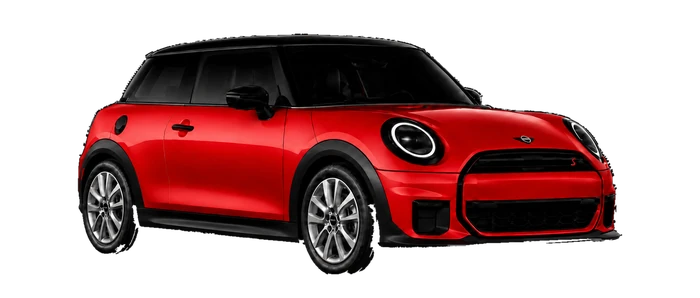
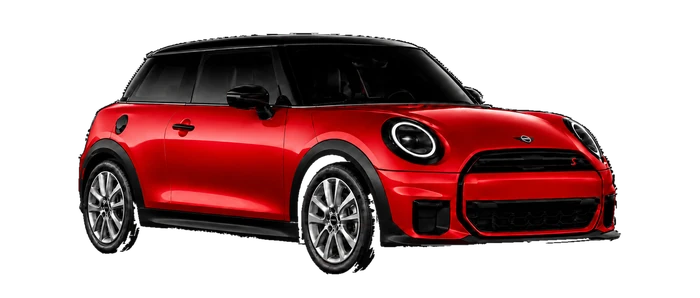
Garage: el destello se reemplaza por un barrido de luz, y MINI nuevo
EL DESTELLO ERA MALO Y ESTABA MAL PLANTEADO. La tira escalaba en
vertical: engordaba y adelgazaba. Eso no se lee como una luz
encendiendose, se lee como una lampara fallando.

EL PROBLEMA DE FONDO ERA ESTRUCTURAL. La geometria vivia en
.gar-auto::before, asi que habia una sola capa para todo y ademas
obligaba a repetir el rotate dentro de cada fotograma —animar
`transform` pisa el giro—. Ahora la calle es un elemento propio:

  .gar-calle          la geometria y el halo
  .gar-calle::before  el nucleo encendido
  .gar-calle::after   el barrido

El giro se declara UNA vez en el padre y los hijos son barras
horizontales: cada capa hace lo suyo sin pelearse con la rotacion.

EL BARRIDO. Un reflejo angosto recorre la tira de punta a punta cuando
el auto llega, en el mismo sentido en que venia. La tira NUNCA se apaga
—eso es lo que la diferencia de un parpadeo—: lo que pasa es que algo la
recorre. Arranca a los .92s contra los 1.15s del viaje, asi corre
mientras el auto termina de plantarse. Verificado sobre una rafaga de
capturas del simulador: se ve el reflejo desplazandose cuadro a cuadro.

MINI NUEVO. Se reemplaza la foto y se recalculan sus cuatro numeros de
calle: la distancia entre ejes cambio, asi que su linea pasa de 0.3041 a
0.3241 del ancho y el angulo de 5.49 a 5.31 grados. Fondo verificado
(maximo 2 sobre 255) y geometria revalidada: 3.30% de hueco en
escritorio y 2.82% en movil entre el que entra y el del centro.

diff --git a/public/index.html b/public/index.html
@@ -953,107 +953,112 @@ video::-webkit-media-controls{ display:none !important; }
              transform 1.15s var(--ease), opacity .38s var(--ease) .74s;
 }
 
-/* LA CALLE — UNA TIRA DE LUZ, NO UNA RAYA.
+/* LA CALLE.
 
    Va de la goma trasera a la delantera siguiendo la inclinacion real de
    cada foto. Los cuatro numeros salen de medir el alfa de cada archivo
    —donde apoya cada rueda, en fraccion del lienzo— y viajan como
-   propiedades en el HTML porque son distintos por auto: la MINI tiene la
-   distancia entre ejes mas corta y su linea es un 14% mas corta que la
-   del Mercedes.
+   propiedades en el HTML, porque son distintos por auto: la MINI tiene
+   la distancia entre ejes mas corta y su linea es un 14% mas corta que
+   la del Mercedes.
 
-   SON DOS CAPAS, y esa es la diferencia entre una raya y una luz:
+   ES UN ELEMENTO PROPIO Y NO UN PSEUDO DEL AUTO. Antes la geometria
+   vivia en .gar-auto::before, y eso obligaba a repetir el rotate dentro
+   de cada fotograma de la animacion —animar `transform` pisa el giro— y
+   dejaba una sola capa para todo. Con un elemento propio, el giro se
+   declara UNA vez acá y los hijos son barras horizontales: cada capa
+   hace lo suyo sin pelearse con la rotacion.
 
-   ::before es el nucleo, dos pixeles encendidos. Se apaga hacia las
-   puntas con un degradado en vez de terminar de golpe — una linea que
-   arranca y corta en seco se lee como un objeto apoyado; una que se
-   desvanece se lee como luz que se termina.
+     .gar-calle          la geometria y el halo
+     .gar-calle::before  el nucleo encendido
+     .gar-calle::after   el barrido que la recorre al llegar
 
-   ::after es el resplandor: una banda ancha y difusa centrada en el
-   mismo eje. Es lo que hace que la luz parezca salir de algun lado en
-   vez de estar pegada encima.
-
-   Las dos giran el mismo angulo y viven DENTRO del auto, asi que heredan
-   su escala: el vecino achicado trae su tira achicada, que es lo que la
-   hace leer como la misma calle yendose al fondo.
-
-   Las dos van detras de la foto (z-index 0 contra 1), asi la tira pasa
-   POR DEBAJO de las gomas y se ve solo entre medio — que es donde
-   estaria de verdad. */
-.gar-auto::before,
-.gar-auto::after{
-  content:"";
+   Vive detras de la foto, asi la tira pasa POR DEBAJO de las gomas y se
+   ve solo entre medio, que es donde estaria de verdad. Y hereda la
+   escala del auto: el vecino achicado trae su calle achicada, que es lo
+   que la hace leer como la misma calle yendose al fondo. */
+.gar-calle{
   position:absolute;
   left:calc(var(--x1) * 100%);
   top:calc(var(--y1) * 100%);
   width:calc(var(--largo) * 100%);
+  height:30px;
+  margin-top:-15px;
   transform-origin:0 50%;
   transform:rotate(var(--ang));
   z-index:0;
   pointer-events:none;
+  /* el halo. Sin blur: el degradado ya es suave, y un filtro acá
+     desenfocaria tambien al nucleo y al barrido, que son hijos. */
+  background:radial-gradient(50% 46% at 48% 50%,
+    rgba(255,255,255,.20), rgba(255,255,255,.055) 46%, transparent 76%);
+  opacity:.72;
+  transition:opacity .5s var(--ease);
 }
 
-/* el nucleo */
-.gar-auto::before{
+/* el nucleo, encendido siempre. Se apaga hacia las puntas en vez de
+   terminar de golpe: una linea que corta en seco se lee como un objeto
+   apoyado; una que se desvanece, como luz que se termina. */
+.gar-calle::before{
+  content:"";
+  position:absolute;
+  left:0; right:0; top:50%;
   height:2px;
   margin-top:-1px;
   background:linear-gradient(90deg,
     transparent 0%,
-    rgba(255,255,255,.55) 10%,
-    #fff 46%,
-    rgba(255,255,255,.9) 72%,
+    rgba(255,255,255,.5) 11%,
+    #fff 47%,
+    rgba(255,255,255,.88) 74%,
     transparent 100%);
 }
 
-/* el resplandor */
-.gar-auto::after{
-  height:26px;
-  margin-top:-13px;
-  background:radial-gradient(52% 50% at 48% 50%,
-    rgba(255,255,255,.26), rgba(255,255,255,.07) 45%, transparent 74%);
-  filter:blur(5px);
+/* EL BARRIDO. Un reflejo angosto que recorre la tira de punta a punta
+   cuando el auto llega, en el mismo sentido en que venia. No es un
+   parpadeo: la tira nunca se apaga, lo que pasa es que algo la recorre.
+   Esa es la diferencia entre que parezca una lampara fallando y que
+   parezca una regleta encendiendose. */
+.gar-calle::after{
+  content:"";
+  position:absolute;
+  left:0; top:50%;
+  width:30%;
+  height:3px;
+  margin-top:-1.5px;
+  background:linear-gradient(90deg,
+    transparent 0%, rgba(255,255,255,.55) 38%, #fff 52%,
+    rgba(255,255,255,.45) 66%, transparent 100%);
+  filter:blur(1.5px);
+  opacity:0;
 }
 
-/* EL DESTELLO. La tira se enciende cuando el auto LLEGA, no cuando
-   arranca: de ahí el retardo de 1s contra los 1.15s que dura el viaje.
-   El pico cae casi sobre el momento en que el auto se planta, y se lee
-   como que la luz prende al pisarla.
-
-   Sube rapido y baja despacio —el pico esta al 14% del recorrido— que
-   es como se comporta una lampara de verdad y no un parpadeo digital.
-
-   El rotate se repite en cada fotograma porque animar `transform` pisa
-   el giro que ya tenia la tira; sin eso, durante el destello la linea
-   se pondria horizontal de golpe.
-
-   La animacion se dispara sola cada vez que un auto recibe .es-actual,
-   que es exactamente una vez por llegada. */
-@keyframes gar-destello-nucleo{
-  0%   { transform:rotate(var(--ang)) scaleY(1);   opacity:.45; }
-  14%  { transform:rotate(var(--ang)) scaleY(3.4); opacity:1;   }
-  46%  { transform:rotate(var(--ang)) scaleY(1.5); opacity:1;   }
-  100% { transform:rotate(var(--ang)) scaleY(1);   opacity:1;   }
+/* Arranca a los .92s contra los 1.15s que dura el viaje: el barrido
+   corre mientras el auto termina de plantarse, no despues. */
+@keyframes gar-barrido{
+  0%   { opacity:0;  transform:translateX(-45%); }
+  14%  { opacity:1;  }
+  84%  { opacity:.9; }
+  100% { opacity:0;  transform:translateX(345%); }
 }
 
-@keyframes gar-destello-halo{
-  0%   { transform:rotate(var(--ang)) scaleY(.7); opacity:.3; }
-  14%  { transform:rotate(var(--ang)) scaleY(2.1); opacity:1;  }
-  52%  { transform:rotate(var(--ang)) scaleY(1.2); opacity:1;  }
-  100% { transform:rotate(var(--ang)) scaleY(1);   opacity:1;  }
+@keyframes gar-encender{
+  0%   { opacity:.3; }
+  30%  { opacity:1;  }
+  100% { opacity:.72; }
 }
 
-.gar-auto.es-actual::before{
-  animation:gar-destello-nucleo .85s var(--ease) 1s both;
+.gar-auto.es-actual .gar-calle{
+  animation:gar-encender 1.5s var(--ease) .85s both;
 }
-.gar-auto.es-actual::after{
-  animation:gar-destello-halo .95s var(--ease) 1s both;
+.gar-auto.es-actual .gar-calle::after{
+  animation:gar-barrido 1.15s cubic-bezier(.18,.72,.3,1) .92s both;
 }
 
-/* Quien pidió no ver movimiento no ve el destello: la tira aparece
-   encendida y quieta. */
+/* Quien pidió no ver movimiento ve la tira encendida y quieta. */
 @media (prefers-reduced-motion:reduce){
-  .gar-auto.es-actual::before,
-  .gar-auto.es-actual::after{ animation:none; }
+  .gar-auto.es-actual .gar-calle,
+  .gar-auto.es-actual .gar-calle::after{ animation:none; }
+  .gar-calle{ opacity:.72; }
 }
 
 .gar-auto picture{
@@ -2974,6 +2979,7 @@ body.is-dark.is-scrolled #topbar{
 
       <div class="gar-auto"
            style="--x1:0.1555; --y1:0.8504; --largo:0.3521; --ang:4.74deg">
+        <span class="gar-calle" aria-hidden="true"></span>
         <picture>
           <source media="(max-width:767px)" srcset="assets/grupos/alta-gama@sm.webp">
           <img src="assets/grupos/alta-gama.webp" alt="Mercedes-AMG GLE 63 Coupé blanco"
@@ -2982,6 +2988,7 @@ body.is-dark.is-scrolled #topbar{
       </div>
       <div class="gar-auto"
            style="--x1:0.1518; --y1:0.8462; --largo:0.3514; --ang:5.19deg">
+        <span class="gar-calle" aria-hidden="true"></span>
         <picture>
           <source media="(max-width:767px)" srcset="assets/grupos/deportivos@sm.webp">
           <img src="assets/grupos/deportivos.webp" alt="BMW M240i violeta"
@@ -2990,6 +2997,7 @@ body.is-dark.is-scrolled #topbar{
       </div>
       <div class="gar-auto"
            style="--x1:0.1573; --y1:0.8504; --largo:0.3503; --ang:4.76deg">
+        <span class="gar-calle" aria-hidden="true"></span>
         <picture>
           <source media="(max-width:767px)" srcset="assets/grupos/evolution@sm.webp">
           <img src="assets/grupos/evolution.webp" alt="Ford Mustang Mach-E azul"
@@ -2997,7 +3005,8 @@ body.is-dark.is-scrolled #topbar{
         </picture>
       </div>
       <div class="gar-auto"
-           style="--x1:0.1645; --y1:0.8526; --largo:0.3041; --ang:5.49deg">
+           style="--x1:0.1455; --y1:0.8504; --largo:0.3241; --ang:5.31deg">
+        <span class="gar-calle" aria-hidden="true"></span>
         <picture>
           <source media="(max-width:767px)" srcset="assets/grupos/urbanos@sm.webp">
           <img src="assets/grupos/urbanos.webp" alt="MINI Cooper S rojo"
